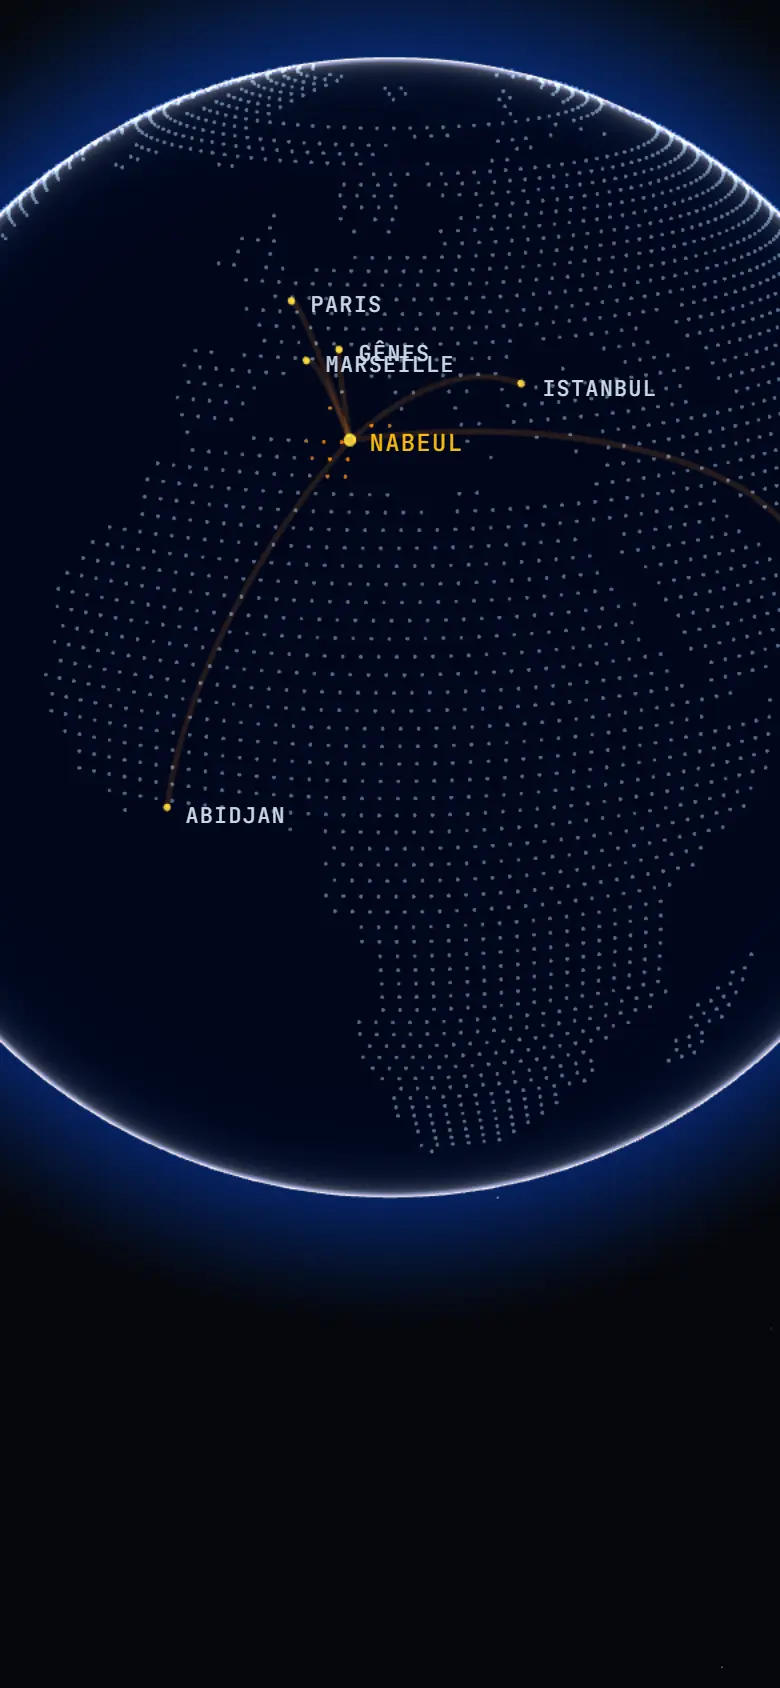
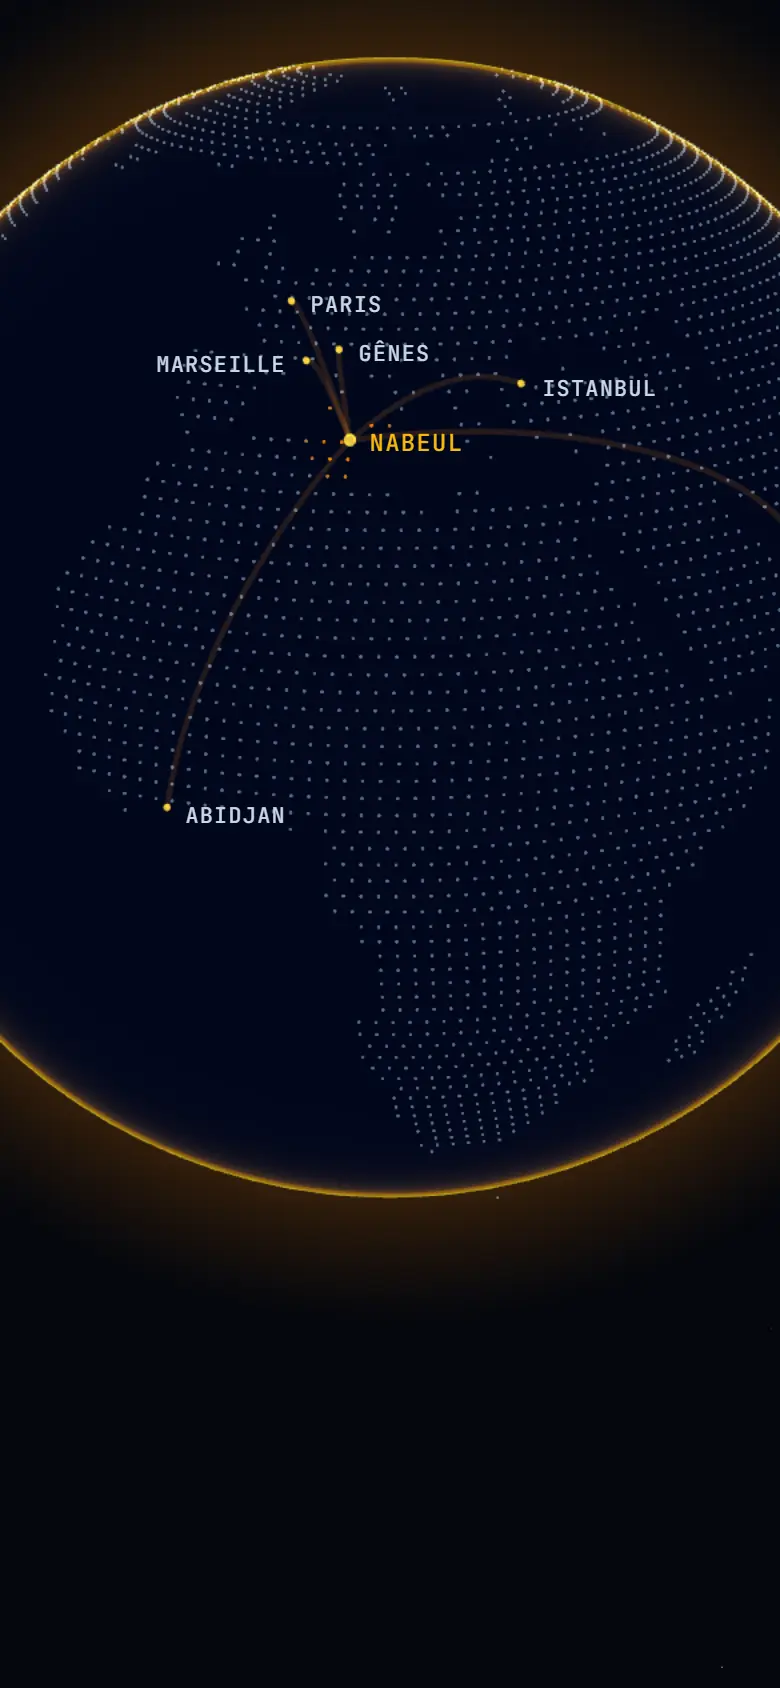
feat(hero): composition équilibrée sous la navbar, halo du globe en jaune LST
- Desktop : texte dans la moitié gauche (aligné sur le logo), globe centré dans la moitié droite
  du conteneur de la navbar (mesuré, recalculé au redimensionnement) ; recentré pendant la plongée
- Mobile : texte centré sous le globe
- Halo et liseré du globe en jaune LST, intensité discrète (halo 0,2, liseré 0,5) ;
  lueur de fond réchauffée
- Image mobile du globe régénérée (halo jaune, étiquettes sans chevauchement) ;
  paramètre ?globe-webgl pour la régénérer (docs/assets.md)

Changed region(s): [[0.0, 0.5853, 1.0, 0.7701], [0.0, 0.0, 1.0, 0.154]]

diff --git a/src/components/landing/hero/Globe.tsx b/src/components/landing/hero/Globe.tsx
@@ -60,7 +60,7 @@ const haloFrag = /* glsl */ `
     float i = pow(clamp(-dot(vN, vView) / 0.58, 0.0, 1.0), 2.6);
     gl_FragColor = vec4(uColor, i * uIntensity);
   }`;
-/** Liseré au bord du disque : bleu clair, puis fin filet jaune LST tout au bord. */
+/** Liseré au bord du disque : jaune clair, puis fin filet jaune LST tout au bord. */
 const rimFrag = /* glsl */ `
   uniform vec3 uBlue; uniform vec3 uYellow; uniform float uIntensity;
   varying vec3 vN; varying vec3 vView;
@@ -102,7 +102,15 @@ const starsFrag = /* glsl */ `
 /* ----------------------------------------------------------------------------- scène */
 type LabelRef = { el: HTMLElement | null; pos: THREE.Vector3 };
 
-function Scene({ progress, reduced, mobile, labels }: GlobeProps & { labels: React.RefObject<LabelRef[]> }) {
+type Layout = { fx: number };
+
+function Scene({
+  progress,
+  reduced,
+  mobile,
+  labels,
+  layout,
+}: GlobeProps & { labels: React.RefObject<LabelRef[]>; layout: React.RefObject<Layout> }) {
   const { camera, gl, size, invalidate } = useThree();
   const globe = useRef<THREE.Group>(null);
   const tilt = useRef<THREE.Group>(null);
@@ -159,7 +167,7 @@ function Scene({ progress, reduced, mobile, labels }: GlobeProps & { labels: Rea
         transparent: true,
         depthWrite: false,
         blending: THREE.AdditiveBlending,
-        uniforms: { uColor: { value: new THREE.Color("#2f7fd0") }, uIntensity: { value: 0.6 } },
+        uniforms: { uColor: { value: new THREE.Color("#f8b80b") }, uIntensity: { value: 0.2 } },
       }),
       rim: new THREE.ShaderMaterial({
         vertexShader: glowVert,
@@ -168,9 +176,9 @@ function Scene({ progress, reduced, mobile, labels }: GlobeProps & { labels: Rea
         depthWrite: false,
         blending: THREE.AdditiveBlending,
         uniforms: {
-          uBlue: { value: new THREE.Color("#6fb4e0") },
+          uBlue: { value: new THREE.Color("#ffd77a") },
           uYellow: { value: YELLOW },
-          uIntensity: { value: 1 },
+          uIntensity: { value: 0.5 },
         },
       }),
       stars: new THREE.ShaderMaterial({
@@ -264,21 +272,26 @@ function Scene({ progress, reduced, mobile, labels }: GlobeProps & { labels: Rea
     pt.sy += (pt.y - pt.sy) * Math.min(1, dt * 3);
     tl.rotation.set(pt.sy * 0.08, pt.sx * 0.12, 0);
 
-    // Position et zoom : globe à droite du texte (desktop) ou en bas (mobile), puis plongée vers Nabeul.
+    // Position et zoom : globe centré dans la moitié droite du conteneur de la navbar (desktop)
+    // ou au-dessus du texte (écran étroit), puis plongée vers Nabeul, recentrée à l'écran.
     const wide = size.width / size.height > 1.1;
     const z = smooth(0.0, 1, p);
-    // Globe centré (le texte du hero est centré par-dessus) ; sur écran étroit, remonté au-dessus du texte.
-    tl.position.set(0, wide ? 0 : 0.62 * (1 - z), 0);
     // Globe à 70 % de sa taille initiale (caméra reculée), même plongée finale vers Nabeul.
-    camera.position.set(0, 0, (wide ? 4.85 : 4.4) - (wide ? 3.6 : 3.15) * smooth(0.05, 1, p));
-    camera.lookAt(tl.position.x * 0.4, tl.position.y * 0.4, 0);
+    const dist = (wide ? 4.85 : 4.4) - (wide ? 3.6 : 3.15) * smooth(0.05, 1, p);
+    camera.position.set(0, 0, dist);
+    // Demi-largeur visible dans le plan du globe → décalage en unités 3D pour viser layout.fx de l'écran.
+    const halfW = Math.tan(((camera as THREE.PerspectiveCamera).fov * RAD) / 2) * dist * (size.width / size.height);
+    const x = wide ? (layout.current.fx - 0.5) * 2 * halfW : 0;
+    tl.position.set(x * (1 - z), wide ? 0 : 0.62 * (1 - z), 0);
+    camera.lookAt(0, tl.position.y * 0.4, 0);
 
     // Entrée dans l'atmosphère : étoiles puis points s'effacent, le halo s'intensifie.
     mats.stars.uniforms.uTime.value = t;
     mats.stars.uniforms.uOpacity.value = 1 - smooth(0.05, 0.45, p);
     mats.dots.uniforms.uOpacity.value = 1 - smooth(0.55, 0.9, p);
-    mats.halo.uniforms.uIntensity.value = 0.6 + 0.9 * smooth(0.3, 0.8, p);
-    mats.rim.uniforms.uIntensity.value = 1 - smooth(0.6, 0.95, p);
+    // Halo jaune volontairement discret (0,2), un peu plus présent pendant la plongée.
+    mats.halo.uniforms.uIntensity.value = 0.2 + 0.3 * smooth(0.3, 0.8, p);
+    mats.rim.uniforms.uIntensity.value = 0.5 * (1 - smooth(0.6, 0.95, p));
     if (stars.current) stars.current.rotation.set(pt.sy * 0.02, t * 0.004 + pt.sx * 0.03, 0);
 
     // Marqueurs : taille apparente constante pendant la plongée, puis effacement.
@@ -352,6 +365,23 @@ export default function Globe({ progress, reduced, mobile }: GlobeProps) {
     [],
   );
   const labels = useRef<LabelRef[]>([]);
+  // Centre visé pour le globe (fraction de la largeur de l'écran) : milieu de la moitié droite du
+  // conteneur de la navbar (.hero-frame), pour une composition équilibrée sous la navigation.
+  const layout = useRef<Layout>({ fx: 0.7 });
+  useEffect(() => {
+    const frame = wrap.current?.closest(".hero-stage")?.querySelector<HTMLElement>(".hero-frame");
+    if (!frame) return;
+    const measure = () => {
+      const r = frame.getBoundingClientRect();
+      const cs = getComputedStyle(frame);
+      const left = r.left + parseFloat(cs.paddingLeft), right = r.right - parseFloat(cs.paddingRight);
+      layout.current.fx = (left + 0.75 * (right - left)) / window.innerWidth;
+    };
+    measure();
+    const ro = new ResizeObserver(measure);
+    ro.observe(frame);
+    return () => ro.disconnect();
+  }, []);
 
   useEffect(() => {
     const el = wrap.current;
@@ -369,7 +399,7 @@ export default function Globe({ progress, reduced, mobile }: GlobeProps) {
         camera={{ position: [0, 0, 4.85], fov: 38, near: 0.05, far: 200 }}
         frameloop={reduced ? "demand" : visible ? "always" : "never"}
       >
-        <Scene progress={progress} reduced={reduced} mobile={mobile} labels={labels} />
+        <Scene progress={progress} reduced={reduced} mobile={mobile} labels={labels} layout={layout} />
       </Canvas>
       <div className="globe-labels">
         {points.map((p, i) => (

diff --git a/src/components/landing/hero/hero.css b/src/components/landing/hero/hero.css
@@ -1,7 +1,7 @@
 /* ---------- Hero : globe + entrée dans l'atmosphère ---------- */
 .hero{position:relative;height:240vh;height:240svh;background:#dfe6ec}
 .hero-stage{position:sticky;top:0;height:100vh;height:100svh;overflow:hidden;overflow:clip;background:#05070d;
-  background-image:radial-gradient(120% 90% at 72% 50%,rgba(31,111,168,.22),transparent 60%)}
+  background-image:radial-gradient(120% 90% at 72% 50%,rgba(248,184,11,.06),transparent 60%)}
 .hero-globe{position:absolute;inset:0;z-index:1}
 .globe{position:absolute;inset:0}
 .globe canvas{display:block}
@@ -13,25 +13,26 @@
 .hero-haze{position:absolute;inset:0;z-index:2;pointer-events:none;opacity:0;
   background:radial-gradient(90% 70% at 60% 55%,rgba(255,255,255,.85),rgba(223,230,236,.4) 55%,rgba(223,230,236,0) 80%)}
 .hero-frame{position:relative;z-index:3;height:100%;max-width:var(--max);margin:0 auto;padding:0 var(--g)}
-/* Hero centré : texte au centre, par-dessus le globe (lui aussi centré). */
-.hero-copy{position:absolute;left:50%;top:50%;translate:-50% -50%;width:min(860px,calc(100% - 2 * var(--g)));text-align:center}
-/* voile sombre derrière le texte : lisible sur les points du globe */
-.hero-copy::after{content:"";position:absolute;z-index:-1;inset:-14% -12%;pointer-events:none;background:radial-gradient(closest-side,rgba(5,7,13,.78),rgba(5,7,13,.5) 60%,rgba(5,7,13,0))}
-.hero-kicker{display:flex;align-items:center;justify-content:center;gap:12px;margin:0 0 22px;color:var(--yellow);font-size:.78rem}
+/* Desktop : texte dans la moitié gauche du conteneur de la navbar (aligné sur le logo),
+   globe centré dans la moitié droite (cf. Globe.tsx) — composition équilibrée sous la navbar. */
+.hero-copy{position:absolute;left:var(--g);top:50%;translate:0 -50%;width:min(780px,calc(50% - var(--g)))}
+.hero-kicker{display:flex;align-items:center;gap:12px;margin:0 0 22px;color:var(--yellow);font-size:.78rem}
 .hero-kicker i{display:inline-block;width:28px;height:2px;background:var(--yellow)}
-.hero h1{margin:0 auto;color:#f2f3f5;font-size:clamp(1.75rem,4.34vw,3.92rem);max-width:15ch;text-wrap:balance}
-.hero-text{margin:22px auto 0;color:#a9b3bf;font-size:clamp(1rem,1.3vw,1.15rem);max-width:44ch;font-weight:400}
-.hero-acts{margin-top:30px;display:flex;justify-content:center;gap:20px;align-items:center;flex-wrap:wrap}
+.hero h1{margin:0;color:#f2f3f5;font-size:clamp(1.75rem,4.34vw,3.92rem);max-width:15ch;text-wrap:balance}
+.hero-text{margin:22px 0 0;color:#a9b3bf;font-size:clamp(1rem,1.3vw,1.15rem);max-width:44ch;font-weight:400}
+.hero-acts{margin-top:30px;display:flex;gap:20px;align-items:center;flex-wrap:wrap}
 .hero .link{color:#f2f3f5}
 .hero-hint{position:absolute;left:50%;bottom:calc(28px + env(safe-area-inset-bottom,0px));transform:translateX(-50%);
   display:flex;flex-direction:column;align-items:center;gap:8px;color:#8b97a5;font-size:.72rem}
 .hero-hint i{width:1px;height:34px;background:linear-gradient(var(--yellow),transparent);animation:hint 1.6s ease-in-out infinite;transform-origin:top}
 @media (max-width:767px){
-  .hero-copy{top:auto;bottom:calc(72px + env(safe-area-inset-bottom,0px));translate:-50% 0}
-  .hero-copy::after{display:none}
+  /* mobile : texte centré sous le globe */
+  .hero-copy{left:50%;top:auto;bottom:calc(72px + env(safe-area-inset-bottom,0px));translate:-50% 0;width:calc(100% - 2 * var(--g));text-align:center}
+  .hero-kicker,.hero-acts{justify-content:center}
+  .hero h1,.hero-text{margin-left:auto;margin-right:auto}
   .hero h1{font-size:clamp(1.5rem,6.65vw,2.1rem)}
   .hero-hint{display:none}
-  .hero-stage{background-image:radial-gradient(120% 70% at 50% 30%,rgba(31,111,168,.25),transparent 60%)}
+  .hero-stage{background-image:radial-gradient(120% 70% at 50% 30%,rgba(248,184,11,.07),transparent 60%)}
   .hero-copy::before{content:"";position:absolute;z-index:-1;left:calc(-1 * var(--g));right:calc(-1 * var(--g));top:-30vh;bottom:-120px;pointer-events:none;background:linear-gradient(rgba(5,7,13,0),rgba(5,7,13,.8) 40%,rgba(5,7,13,.92))}
 }
 /* Pas de défilement épinglé : un écran, fond nuit, globe statique. */

diff --git a/src/components/landing/hero/Hero.tsx b/src/components/landing/hero/Hero.tsx
@@ -24,6 +24,9 @@ export function Hero() {
   const mobile = useIsMobile();
   // Le WebGL (et three.js) n'est chargé qu'après hydratation, et jamais sur mobile.
   const hydrated = useHydrated();
+  // ?globe-webgl : force le globe WebGL sur mobile (sert à régénérer l'image pré-rendue, cf. docs/assets.md).
+  const forceGL = hydrated && new URLSearchParams(window.location.search).has("globe-webgl");
+  const staticGlobe = mobile && !forceGL;
 
   useGSAP(
     () => {
@@ -48,16 +51,16 @@ export function Hero() {
         .fromTo(".hero-haze", { opacity: 0 }, { opacity: 1, duration: 0.5 }, 0.5)
         .to(".hero-globe", { opacity: 0, duration: 0.2 }, 0.8);
       // Mobile : image statique du globe, « plongée » simulée par un zoom vers Nabeul.
-      if (mobile) tl.fromTo(".hero-globe-static", { scale: 1 }, { scale: 3.2, duration: 1, ease: "power1.in" }, 0);
+      if (staticGlobe) tl.fromTo(".hero-globe-static", { scale: 1 }, { scale: 3.2, duration: 1, ease: "power1.in" }, 0);
     },
-    { scope: root, dependencies: [reduced, mobile] },
+    { scope: root, dependencies: [reduced, staticGlobe] },
   );
 
   return (
     <section id="hero" ref={root} className="hero" aria-labelledby="hero-t">
       <div className="hero-stage">
         <div className="hero-globe">
-          {mobile ? (
+          {staticGlobe ? (
             // Mobile : pas de WebGL au chargement (performances) — rendu du globe pré-calculé.
             // eslint-disable-next-line @next/next/no-img-element -- image décorative déjà optimisée (WebP 41 Ko)
             <img className="hero-globe-static" src="/images/hero-globe-mobile.webp" alt="" aria-hidden="true" decoding="async" />

diff --git a/docs/assets.md b/docs/assets.md
@@ -115,3 +115,18 @@ Fichiers attendus : `truck.glb`, `reachstacker.glb`, `ship.glb`, `plane.glb`.
 
 Les placeholders actuels (`npm run assets:placeholders`) sont générés par le code du dépôt et
 n'utilisent aucun asset tiers, en dehors du monogramme LST.
+
+## Globe du hero sur mobile (image pré-rendue)
+
+Sur mobile (< 768 px), le hero affiche `public/images/hero-globe-mobile.webp` (780×1688, environ 40 Ko)
+au lieu du globe WebGL, pour ne pas charger three.js au démarrage. Il faut régénérer cette image après
+chaque modification visuelle du globe (couleurs, halo, destinations) :
+
+1. `npm run build && npm run start`
+2. Ouvrir `http://localhost:3000/?globe-webgl` en émulation mobile 390×844, DPR 2, avec
+   `prefers-reduced-motion: reduce` (globe figé, arcs complets).
+3. Masquer le texte du hero et l'en-tête (`.hero-copy`, `.bar`, `.wa`, `.hero-hint`, `.scroll-progress`),
+   puis capturer l'écran.
+4. Convertir la capture en WebP qualité 72 vers `public/images/hero-globe-mobile.webp`.
+
+Le paramètre `?globe-webgl` ne sert qu'à cette capture : il force le globe WebGL sur mobile.
